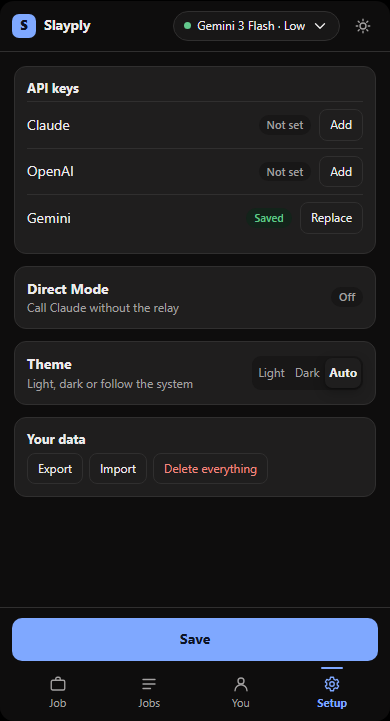
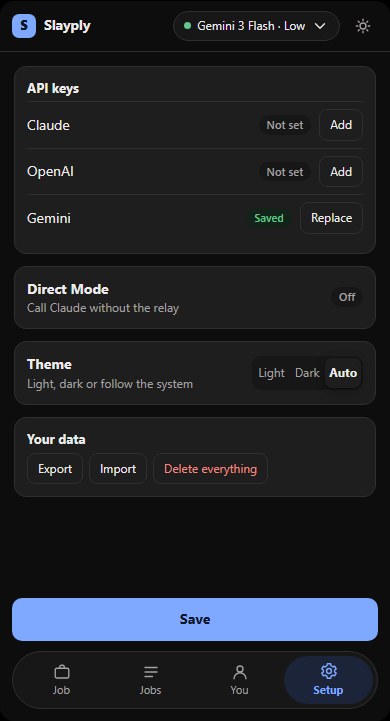
docs(design): floating tab pill with sliding highlight, primary action above it (REDO-00)

Changed region(s): [[0.0308, 0.8239, 0.9846, 1.0]]

diff --git a/docs/design/prototype/index.html b/docs/design/prototype/index.html
@@ -96,7 +96,8 @@
       .icon-btn:hover { background: var(--surface); color: var(--text); }
       svg { width: 18px; height: 18px; fill: none; stroke: currentColor; stroke-width: 1.8; stroke-linecap: round; stroke-linejoin: round; }
       .body { overflow: auto; padding: 14px 14px 18px; display: grid; align-content: start; gap: 12px; }
-      .dock { border-top: 1px solid var(--border); background: var(--bg); padding: 10px 12px 0; }
+      /* The dock floats: the primary action first, then the tab pill, with one gap on the left, right and bottom. */
+      .dock { --gap: 12px; background: var(--bg); padding: 10px var(--gap) var(--gap); display: grid; gap: 10px; }
       .primary {
         width: 100%; padding: 11px 14px; border: 0; border-radius: 10px; background: var(--accent);
         color: var(--accent-ink); font: inherit; font-weight: 650; cursor: pointer;
@@ -104,15 +105,26 @@
       }
       .primary:hover { filter: brightness(1.06); }
       .primary:active { transform: scale(0.985); }
-      .tabs { display: grid; grid-template-columns: repeat(4, 1fr); margin-top: 6px; }
+      .tabs {
+        --i: 0; position: relative; display: grid; grid-template-columns: repeat(4, 1fr); padding: 4px;
+        background: var(--surface); border: 1px solid var(--border); border-radius: 999px;
+      }
+      /* The sliding highlight: one element that moves to the active tab. */
+      .tabs::before {
+        content: ""; position: absolute; top: 4px; bottom: 4px; left: 4px; width: calc((100% - 8px) / 4);
+        border-radius: 999px; background: var(--accent-soft);
+        transform: translateX(calc(var(--i) * 100%));
+        transition: transform 0.28s var(--ease);
+      }
       .tab {
-        border: 0; background: transparent; color: var(--muted); font: inherit; font-size: 11px; padding: 8px 0 10px;
-        display: grid; justify-items: center; gap: 2px; cursor: pointer; position: relative;
+        position: relative; border: 0; background: transparent; color: var(--muted); font: inherit; font-size: 11px;
+        padding: 7px 0 6px; display: grid; justify-items: center; gap: 1px; cursor: pointer; border-radius: 999px;
+        transition: color 0.2s var(--ease);
       }
+      .tab:hover { color: var(--text); }
+      .tab svg { transition: transform 0.28s var(--ease); }
       .tab[aria-current="true"] { color: var(--accent); font-weight: 650; }
-      .tab[aria-current="true"]::before {
-        content: ""; position: absolute; top: 0; width: 22px; height: 2px; border-radius: 2px; background: var(--accent);
-      }
+      .tab[aria-current="true"] svg { transform: translateY(-1px) scale(1.08); }
       .steps { display: flex; align-items: center; gap: 6px; font-size: 12px; color: var(--muted); }
       .step { display: inline-flex; align-items: center; gap: 6px; }
       .step i {
@@ -374,6 +386,7 @@
         $("chip").setAttribute("aria-expanded", "false");
         $("nav").querySelectorAll("button").forEach((b) => b.setAttribute("aria-current", b.dataset.n === name));
         $("tabs").querySelectorAll("button").forEach((b) => b.setAttribute("aria-current", b.dataset.t === s.tab));
+        $("tabs").style.setProperty("--i", ["job", "jobs", "you", "setup"].indexOf(s.tab));
         clearInterval(timer);
         if (name === "working") {
           let seconds = 7;

diff --git a/docs/REDESIGN_PLAN.md b/docs/REDESIGN_PLAN.md
@@ -19,7 +19,7 @@ Found by using the production build with a real Gemini key:
 
 ## Design rules
 
-- One purpose per screen; one primary button, always in the dock.
+- One purpose per screen; one primary button, always in the dock, above the tab bar. The tab bar is a full-width pill with the same 12 px gap left, right and bottom, and a highlight that slides to the active tab (instant under reduced motion).
 - Details open in drawers or popovers; a screen should fit in about 720 px without scrolling for the common case.
 - Colour: light (white, `#0b5fff` accent), dark (greyish black `#0e0d0d`, `#7fa8ff` accent).  Measured contrast: every dark text pair is 6.5:1 or better and every light pair 4.7:1 or better (WCAG AA needs 4.5:1); REDO-01 turns this into a test. Status colours only for status (ok, warn, bad). Meaning never depends on colour alone.
 - Motion is small (press, copy, popover, step change) and every motion has a reduced-motion rule and a test.
